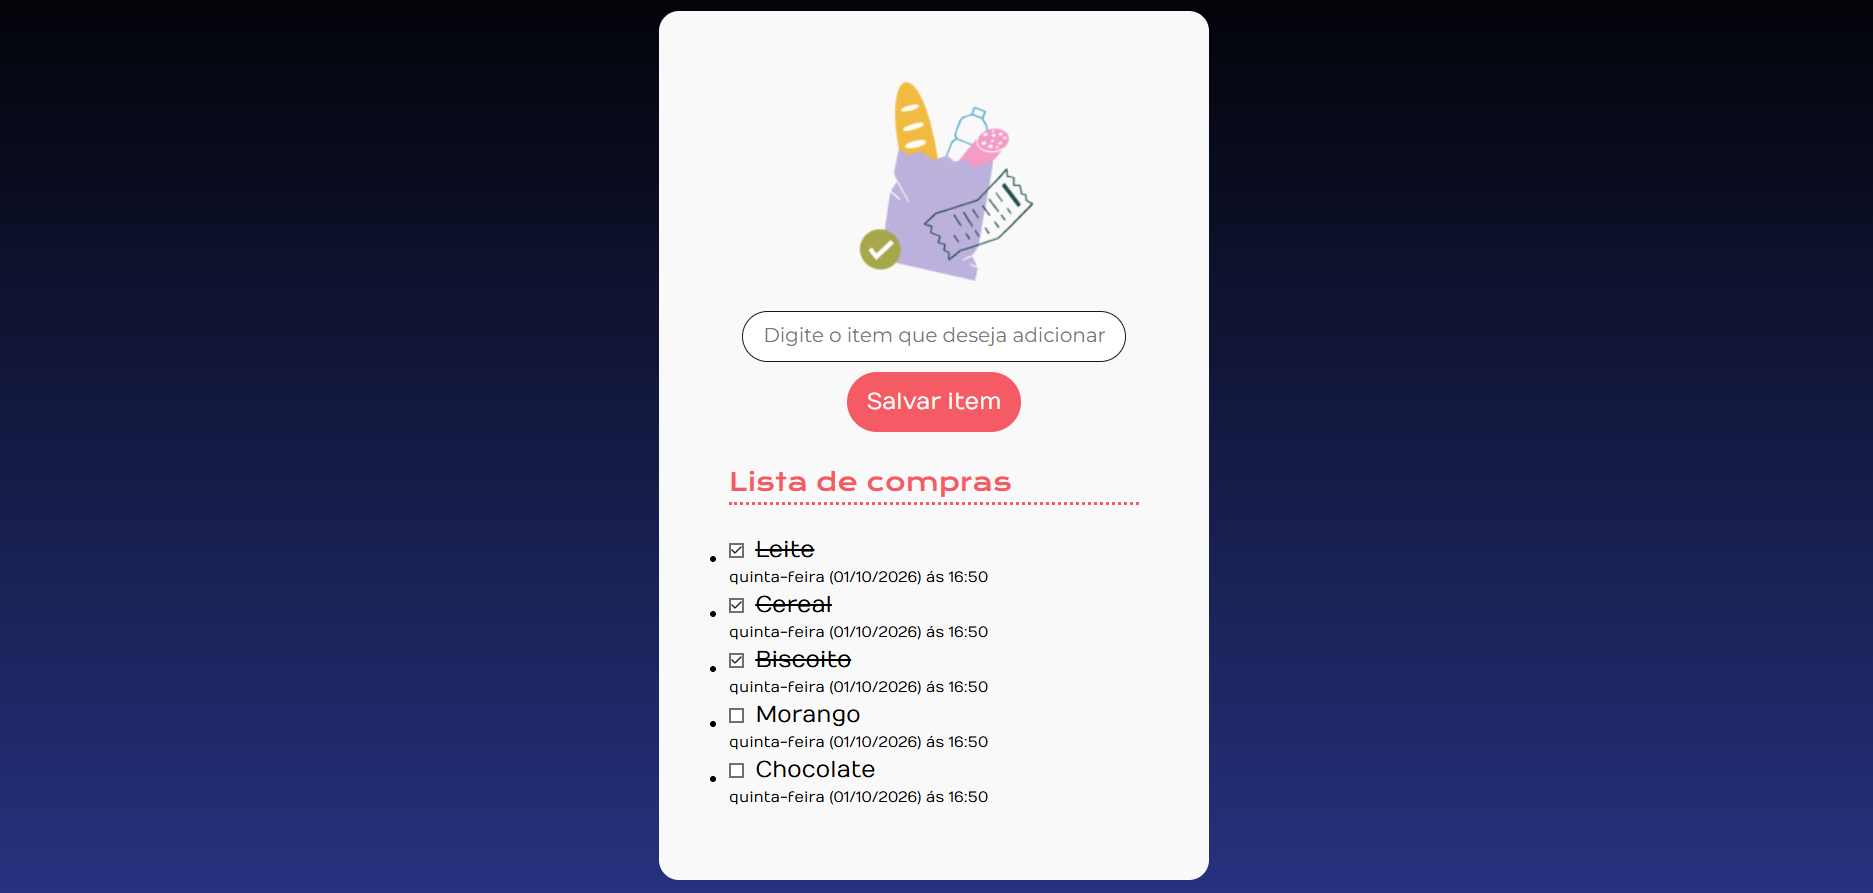
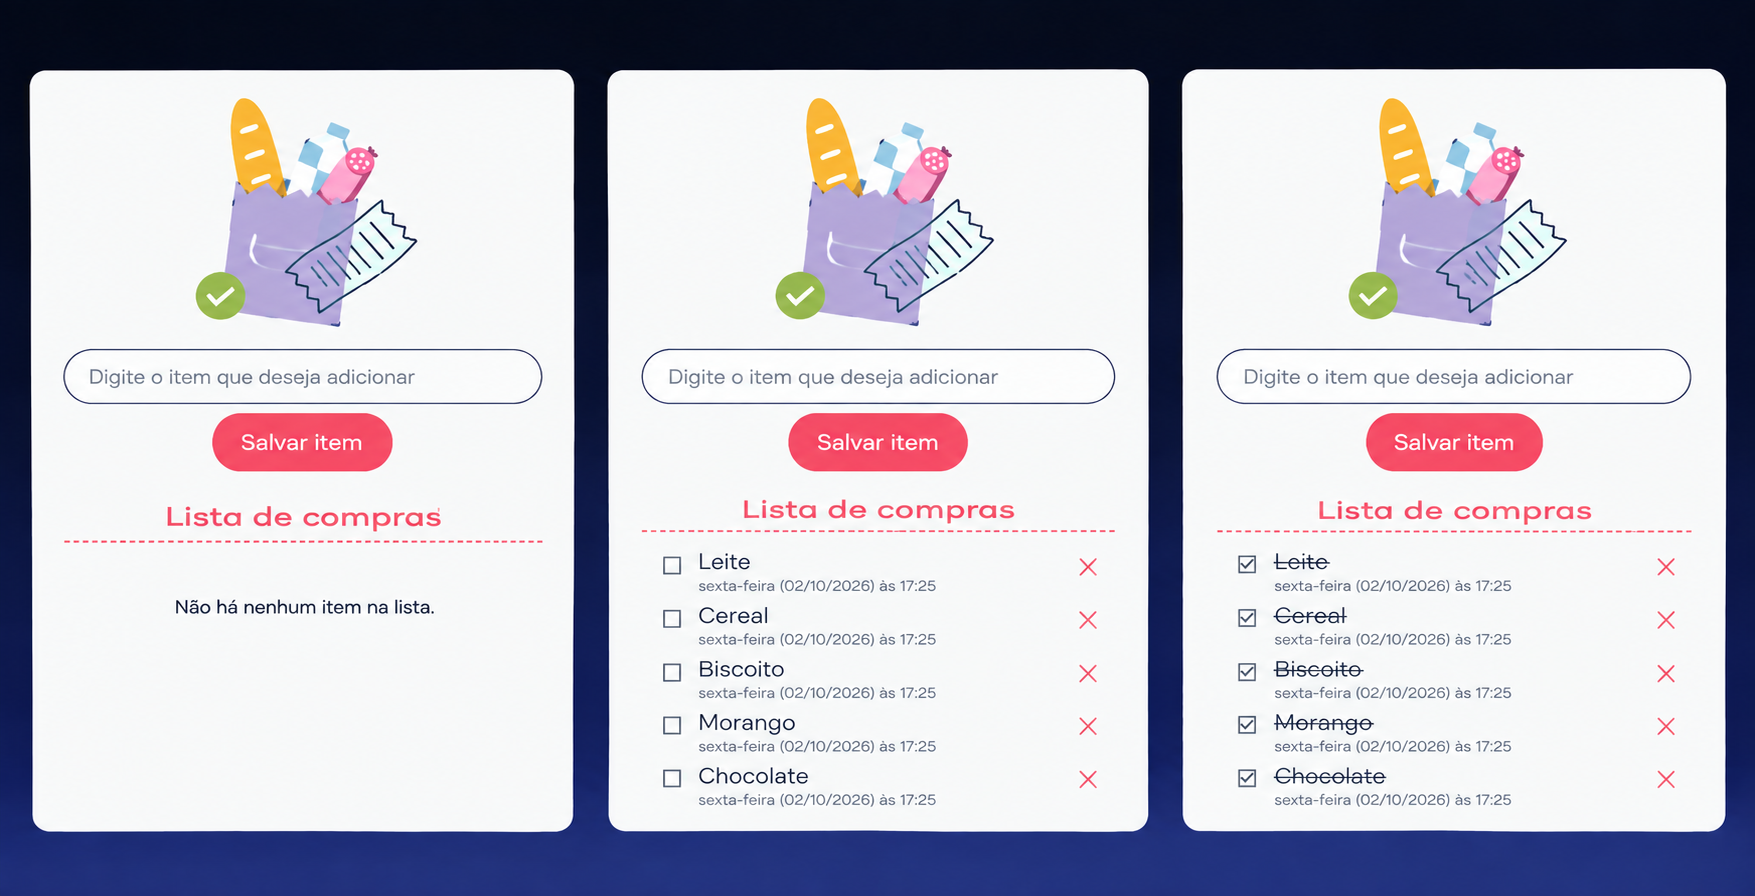
Atualizando Responsividade e Códigos

diff --git a/scripts/criarItemDaLista.js b/scripts/criarItemDaLista.js
@@ -1,41 +1,71 @@
 import gerarDiaDaSemana from "../gerarDiaDaSemana.js";
-const inputItem = document.getElementById("input-item")
+import verificarListaVazia from "./verificarListaVazia.js";
+
+const inputItem = document.getElementById("input-item");
+const listaDeCompras = document.getElementById("lista-de-compras");
 let contador = 0;
 
 export function criarItemDaLista() {
     if (inputItem.value === "") {
         alert("Por favor, insira um item!");
-        return
+        return;
     }
 
     const itemDaLista = document.createElement("li");
     const containerItemDaLista = document.createElement("div");
+
     containerItemDaLista.classList.add("lista-item-container");
+
     const inputCheckbox = document.createElement("input");
     inputCheckbox.type = "checkbox";
     inputCheckbox.id = "checkbox-" + contador++;
+
     const nomeItem = document.createElement("p");
     nomeItem.innerText = inputItem.value;
 
-inputCheckbox.addEventListener("click", function() {
-    if (inputCheckbox.checked) {
+    const botaoRemover = document.createElement("button");
+    botaoRemover.innerText = "✕";
+    botaoRemover.classList.add("item-lista-button");
+
+    botaoRemover.addEventListener("click", function () {
+        itemDaLista.remove();
+        verificarListaVazia(listaDeCompras);
+    });
+
+    inputCheckbox.addEventListener("click", function () {
+        if (inputCheckbox.checked) {
             nomeItem.style.textDecoration = "line-through";
         } else {
             nomeItem.style.textDecoration = "none";
         }
-    }
-)
+
+        const checkboxes = listaDeCompras.querySelectorAll(
+            'input[type="checkbox"]'
+        );
+
+        const todosMarcados = [...checkboxes].every(
+            (checkbox) => checkbox.checked
+        );
+
+        if (todosMarcados) {
+            listaDeCompras.innerHTML = "";
+            verificarListaVazia(listaDeCompras);
+        }
+    });
 
     containerItemDaLista.appendChild(inputCheckbox);
     containerItemDaLista.appendChild(nomeItem);
+    containerItemDaLista.appendChild(botaoRemover);
 
-    itemDaLista.appendChild(containerItemDaLista)
+    itemDaLista.appendChild(containerItemDaLista);
+
     const dataCompleta = gerarDiaDaSemana();
 
     const itemData = document.createElement("p");
     itemData.innerText = dataCompleta;
-    itemData.classList.add("texto-data")
-    itemDaLista.appendChild(itemData)
+    itemData.classList.add("texto-data");
+
+    itemDaLista.appendChild(itemData);
 
     return itemDaLista;
 }

diff --git a/index.html b/index.html
@@ -1,39 +1,38 @@
 <!DOCTYPE html>
 <html lang="pt-br">
   <head>
-    <meta charset="UTF-8" />
-    <meta name="viewport" content="width=device-width, initial-scale=1.0" />
+    <meta charset="UTF-8"/>
+    <meta name="viewport" content="width=device-width, initial-scale=1.0"/>
     <title>Lista de Compras</title>
-    <link rel="preconnect" href="https://fonts.googleapis.com" />
-    <link rel="preconnect" href="https://fonts.gstatic.com" crossorigin />
-    <link
-      href="https://fonts.googleapis.com/css2?family=Krona+One&family=Montserrat&family=Numans&display=swap"
-      rel="stylesheet"
-    />
-    <link rel="stylesheet" href="./styles.css" />
+
+    <link rel="preconnect" href="https://fonts.googleapis.com"/>
+    <link rel="preconnect" href="https://fonts.gstatic.com"/>
+
+    <link href="https://fonts.googleapis.com/css2?family=Krona+One&family=Montserrat&family=Numans&display=swap" rel="stylesheet"/>
+
+    <link rel="stylesheet" href="./styles.css"/>
   </head>
 
   <body>
     <main>
-      <img src="./img/bag.png" alt="sacola de compras" />
+      <img src="./img/bag.png" alt="sacola de compras"/>
+
       <form>
-        <input
-          class="input-item"
-          id="input-item"
-          type="text"
-          placeholder="Digite o item que deseja adicionar"
-        />
-        <button class="button-item" id="adicionar-item" type="button">Salvar item</button>
+        <input class="input-item" id="input-item" type="text" placeholder="Digite o item que deseja adicionar"/>
+
+        <button class="button-item" id="adicionar-item" type="button"> Salvar item </button>
       </form>
 
       <div class="container-lista">
         <h2>Lista de compras</h2>
-        <hr />
+        <hr/>
 
         <ul id="lista-de-compras"></ul>
-        <p class="mensagem-lista-vazia"> Não há nenhum item na lista.</p>
+
+        <p class="mensagem-lista-vazia"> Não há nenhum item na lista.  </p>
       </div>
     </main>
+
     <script src="index.js" type="module"></script>
   </body>
 </html>

diff --git a/styles.css b/styles.css
@@ -10,23 +10,24 @@
     --neutro: #F9F9F9;
     --preto: #131730;
     --fonte-titulo: "Krona One", sans-serif;
-    --fonte-texto: 'Numans', sans-serif;
+    --fonte-texto: "Numans", sans-serif;
     --degrade-azul: linear-gradient(180deg, #000000 0%, #26327F 100%);
 }
 
 body {
     background: var(--degrade-azul);
     background-repeat: no-repeat;
-    height: 100vh;
+    min-height: 100vh;
 
     display: flex;
     flex-direction: column;
     align-items: center;
+    overflow-x: hidden;
 }
 
 main {
     background-color: var(--neutro);
-    margin-top: 64px;
+    margin-top: 9%;
 
     display: flex;
     flex-direction: column;
@@ -37,6 +38,8 @@ main {
 
     align-items: center;
     border-radius: 16px;
+
+    margin-bottom: 9%;
 }
 
 h2 {
@@ -45,6 +48,7 @@ h2 {
     font-size: 20px;
     font-weight: 400;
     line-height: 32px;
+    text-align: center;
 }
 
 hr {
@@ -59,6 +63,10 @@ p {
     font-weight: 400;
     line-height: 24px;
     text-align: left;
+}
+
+.mensagem-lista-vazia {
+    text-align: center;
 }
 
 .input-item {
@@ -100,7 +108,7 @@ form {
     display: flex;
     gap: 8px;
 }
-x
+
 ul {
     list-style-type: none;
 }
@@ -145,8 +153,27 @@ ul {
 .item-lista-button {
     border: none;
     background-color: transparent;
+    margin-left: auto;
+    cursor: pointer;
+    color: var(--cor-secundaria);
+    font-weight: bold;
+    font-size: 18px;
+    transform: translateY(10px);
 }
 
 .container-lista {
     width: 100%;
+}
+
+@media screen and (max-width: 1250px) {
+    main {
+        margin-top: 50%;
+        width: 95%;
+        margin-bottom: 50%;
+    }
+
+    .mensagem-lista-vazia {
+        font-size: 15px;
+        text-align: center;
+    }
 }

diff --git a/index.js b/index.js
@@ -1,0 +1,20 @@
+import { criarItemDaLista } from "./scripts/criarItemDaLista.js";
+import verificarListaVazia from "./scripts/verificarListaVazia.js";
+
+const listaDeCompras = document.getElementById("lista-de-compras");
+const botaoAdicionar = document.getElementById("adicionar-item");
+const inputItem = document.getElementById("input-item");
+
+botaoAdicionar.addEventListener("click", (evento) => {
+    evento.preventDefault();
+
+    const itemDaLista = criarItemDaLista();
+
+    listaDeCompras.appendChild(itemDaLista);
+
+    inputItem.value = "";
+
+    verificarListaVazia(listaDeCompras);
+});
+
+verificarListaVazia(listaDeCompras);

diff --git a/scripts/verificarListaVazia.js b/scripts/verificarListaVazia.js
@@ -2,10 +2,11 @@ const mensagemListaVazia = document.querySelector(".mensagem-lista-vazia");
 
 function verificarListaVazia(listaDeCompras) {
     const itensDaLista = listaDeCompras.querySelectorAll("li");
+
     if (itensDaLista.length === 0) {
-        mensagemListaVazia.style.display = "block"
+        mensagemListaVazia.style.display = "block";
     } else {
-        mensagemListaVazia.style.display = "none"
+        mensagemListaVazia.style.display = "none";
     }
 }
 

diff --git a/gerarDiaDaSemana.js b/gerarDiaDaSemana.js
@@ -1,0 +1,18 @@
+function gerarDiaDaSemana() {
+    const diaDaSemana = new Date().toLocaleDateString("pt-BR", {
+        weekday: "long"
+    });
+
+    const data = new Date().toLocaleDateString("pt-BR");
+
+    const hora = new Date().toLocaleTimeString("pt-BR", {
+        hour: "numeric",
+        minute: "numeric"
+    });
+
+    const dataCompleta = `${diaDaSemana} (${data}) ás ${hora}`;
+
+    return dataCompleta;
+}
+
+export default gerarDiaDaSemana;
